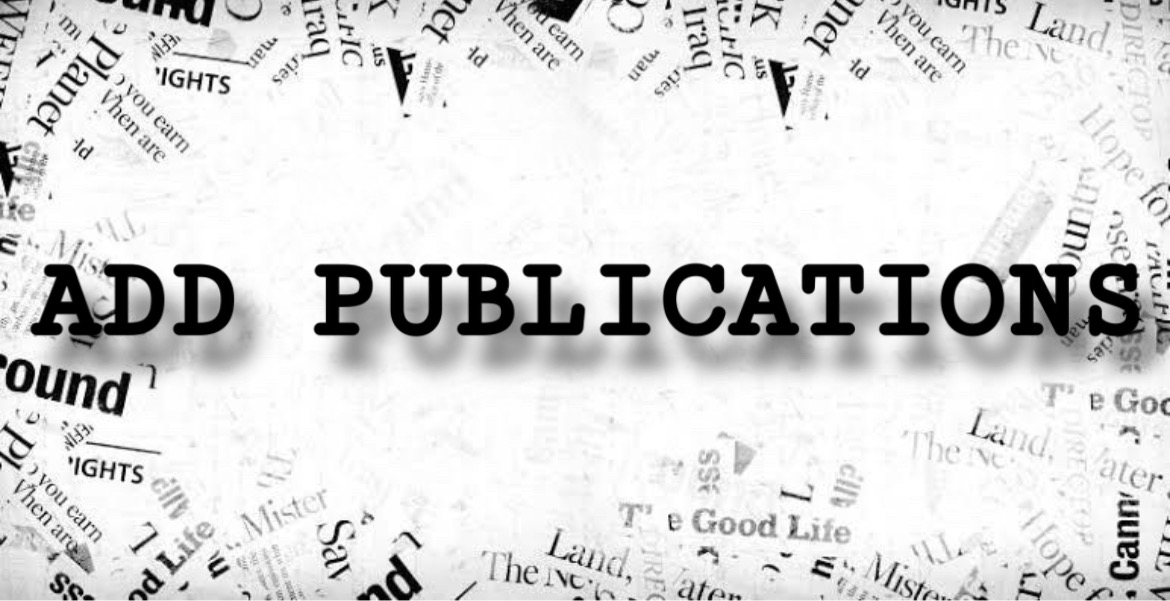
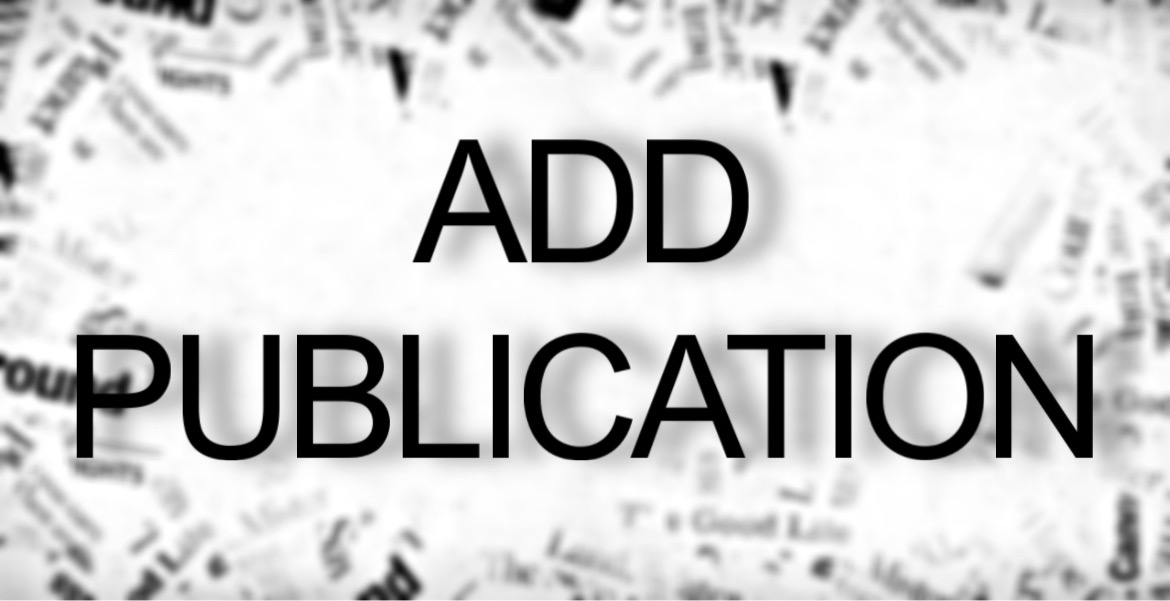
profile

diff --git a/src/components/Profile/Profile.jsx b/src/components/Profile/Profile.jsx
@@ -1,5 +1,7 @@
 import React, { useState } from "react";
-import publicationpng from "../../Images/ADDPublication.png";
+import publicationpng from "../../Images/addpublication.png";
+import blogpng from "../../Images/addblog.png";
+import internpng from "../../Images/addintern.png"
 
 function Profile() {
   const [activeForm, setActiveForm] = useState(null);
@@ -15,11 +17,11 @@ function Profile() {
         <img
           src="https://via.placeholder.com/150"
           alt="Profile"
-          className="w-32 h-32 rounded-full object-cover mb-4"
+          className="w-150 h-150 rounded-full object-cover mt-8 mb-4"
         />
         <h2 className="text-xl font-semibold text-gray-800">John Doe</h2>
-        <p className="text-gray-600 mb-4">john.doe@example.com</p>
-        <button className="bg-blue-600 text-white px-4 py-2 rounded hover:bg-blue-700 transition">
+        <p className="text-gray-600 mb-8">john.doe@example.com</p>
+        <button className="bg-black text-white px-4 py-2 rounded hover:bg-white hover:text-black hover:ring-2 hover:ring-black transition">
           Change Password
         </button>
       </div>
@@ -28,25 +30,27 @@ function Profile() {
       <div className="w-full sm:w-2/3 bg-white shadow-lg p-6 mt-6 sm:mt-0 sm:ml-6">
         {activeForm === null && (
           <div>
-            <h3 className="flex items-center justify-center text-2xl font-bold text-gray-800 mb-4">Menu</h3>
-            <ul className="flex flex-col items-center justify-center space-y-6">
+            <h3 className="flex items-center justify-center text-2xl font-bold text-gray-800 mb-4">
+              Menu
+            </h3>
+            <ul className="flex flex-col items-center justify-center space-y-10">
               <img
                 src={publicationpng}
-                alt="Profile"
-                className="h-40 w-2/3 bg-white shadow-lg hover:bg-black hover:ring-2 hover:ring-black rounded-lg cursor-pointer transition"
+                alt="Publications"
+                className="h-36 w-2/3 bg-white shadow-lg rounded-lg cursor-pointer transition-transform transform hover:scale-105 hover:shadow-2xl"
                 onClick={() => setActiveForm("publications")}
               />
 
               <img
-                src={publicationpng}
-                alt="Profile"
-                className="h-40 w-2/3 bg-white shadow-lg hover:bg-black hover:ring-2 hover:ring-black rounded-lg cursor-pointer transition"
+                src={blogpng}
+                alt="Blog"
+                className="h-36 w-2/3 bg-white shadow-lg rounded-lg cursor-pointer transition-transform transform hover:scale-105 hover:shadow-2xl"
                 onClick={() => setActiveForm("blog")}
               />
               <img
-                src={publicationpng}
-                alt="Profile"
-                className="h-40 w-2/3 bg-white shadow-lg hover:bg-black hover:ring-2 hover:ring-black rounded-lg cursor-pointer transition"
+                src={internpng}
+                alt="Intern"
+                className="h-36 w-2/3 bg-white shadow-lg rounded-lg cursor-pointer transition-transform transform hover:scale-105 hover:shadow-2xl"
                 onClick={() => setActiveForm("intern")}
               />
             </ul>
@@ -61,7 +65,7 @@ function Profile() {
                 Add Publications
               </h3>
               <button
-                className="text-gray-500 hover:text-gray-700 transition"
+                className="font-xl text-gray-500 hover:text-gray-700 hover:scale-105 transition"
                 onClick={handleFormClose}
               >
                 &#10005;
@@ -72,7 +76,7 @@ function Profile() {
                 <label className="block text-gray-700">Photo</label>
                 <input
                   type="file"
-                  className="mt-2 p-2 border border-gray-300 rounded w-full"
+                  className="block w-full text-sm text-slate-500 file:mr-4 file:py-2 file:px-4 file:rounded-full file:border-0 file:text-sm file:font-semibold file:bg-black file:text-white hover:file:bg-white hover:file:text-black hover:file:ring-2 hover:file:ring-black"
                 />
               </div>
               <div className="mb-4">
@@ -100,7 +104,7 @@ function Profile() {
               </div>
               <button
                 type="submit"
-                className="bg-blue-600 text-white px-4 py-2 rounded hover:bg-blue-700 transition"
+                className="bg-black text-white px-4 py-2 rounded hover:bg-white hover:text-black hover:ring-2 hover:ring-black transition"
               >
                 Submit
               </button>
@@ -127,7 +131,7 @@ function Profile() {
                 <label className="block text-gray-700">Photo</label>
                 <input
                   type="file"
-                  className="mt-2 p-2 border border-gray-300 rounded w-full"
+                   className="block w-full text-sm text-slate-500 file:mr-4 file:py-2 file:px-4 file:rounded-full file:border-0 file:text-sm file:font-semibold file:bg-black file:text-white hover:file:bg-white hover:file:text-black hover:file:ring-2 hover:file:ring-black"
                 />
               </div>
               <div className="mb-4">
@@ -148,7 +152,7 @@ function Profile() {
               </div>
               <button
                 type="submit"
-                className="bg-blue-600 text-white px-4 py-2 rounded hover:bg-blue-700 transition"
+                className="bg-black text-white px-4 py-2 rounded hover:bg-white hover:text-black hover:ring-2 hover:ring-black transition"
               >
                 Submit
               </button>
@@ -175,7 +179,7 @@ function Profile() {
                 <label className="block text-gray-700">Photo</label>
                 <input
                   type="file"
-                  className="mt-2 p-2 border border-gray-300 rounded w-full"
+                   className="block w-full text-sm text-slate-500 file:mr-4 file:py-2 file:px-4 file:rounded-full file:border-0 file:text-sm file:font-semibold file:bg-black file:text-white hover:file:bg-white hover:file:text-black hover:file:ring-2 hover:file:ring-black"
                 />
               </div>
               <div className="mb-4">
@@ -196,7 +200,7 @@ function Profile() {
               </div>
               <button
                 type="submit"
-                className="bg-blue-600 text-white px-4 py-2 rounded hover:bg-blue-700 transition"
+                className="bg-black text-white px-4 py-2 rounded hover:bg-white hover:text-black hover:ring-2 hover:ring-black transition"
               >
                 Submit
               </button>
